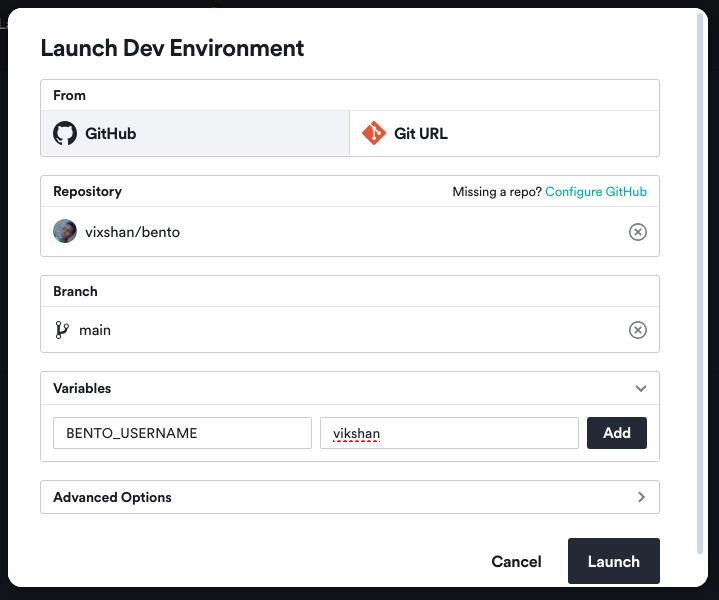
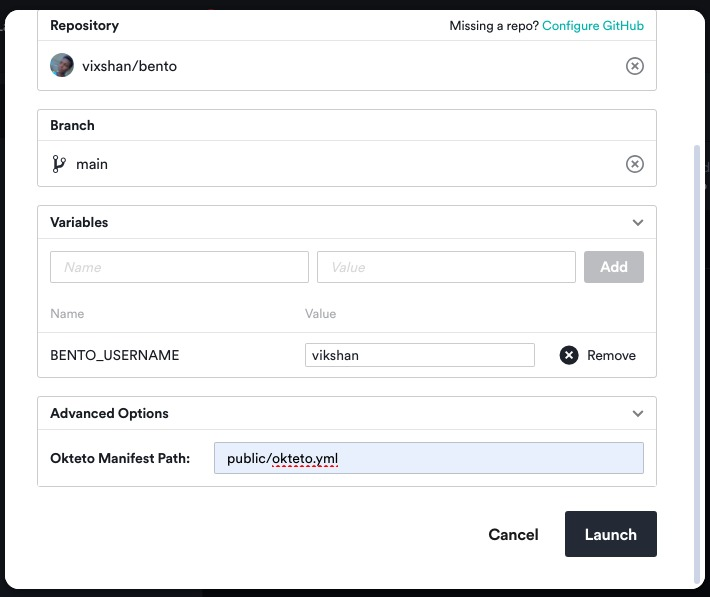
Update Okteto manifest and add custom domain documentation

diff --git a/README.md b/README.md
@@ -141,12 +141,14 @@ npm test
 4. Now select the forked repository, select branch.
 5. Now go to <b>Variables</b> and add variable listed below.
    - BENTO_USERNAME - Your bento username
-6. Click on <b>Advanced Options </b> and add `public/okteto.yml` as your Okteto Manifest Path.
+6. Click on <b>Advanced Options </b> and add `public/okteto.yml` as your Okteto
+   Manifest Path.
    <details>
      <summary>Launching your Okteto app</summary>
      <img src="public/images/okteto.jpeg">
    </details>
-6. To add your custom domain, see this [documentation](https://www.okteto.com/docs/cloud/custom-domains/).
+7. To add your custom domain, see this
+   [documentation](https://www.okteto.com/docs/cloud/custom-domains/).
 
 ## Usage
 
